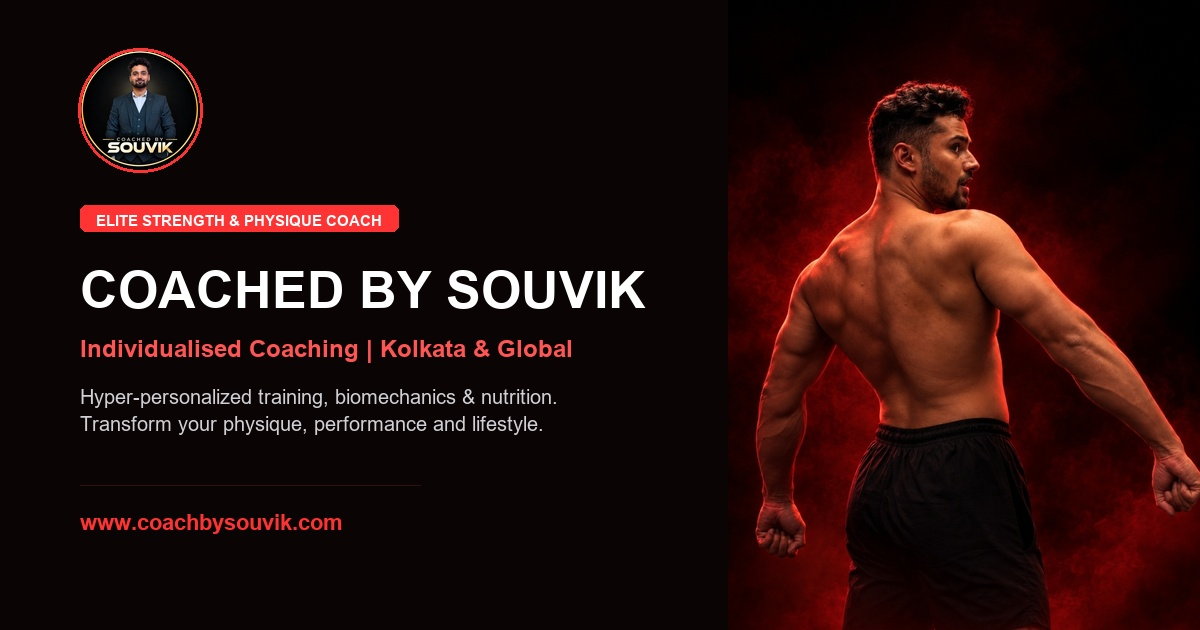
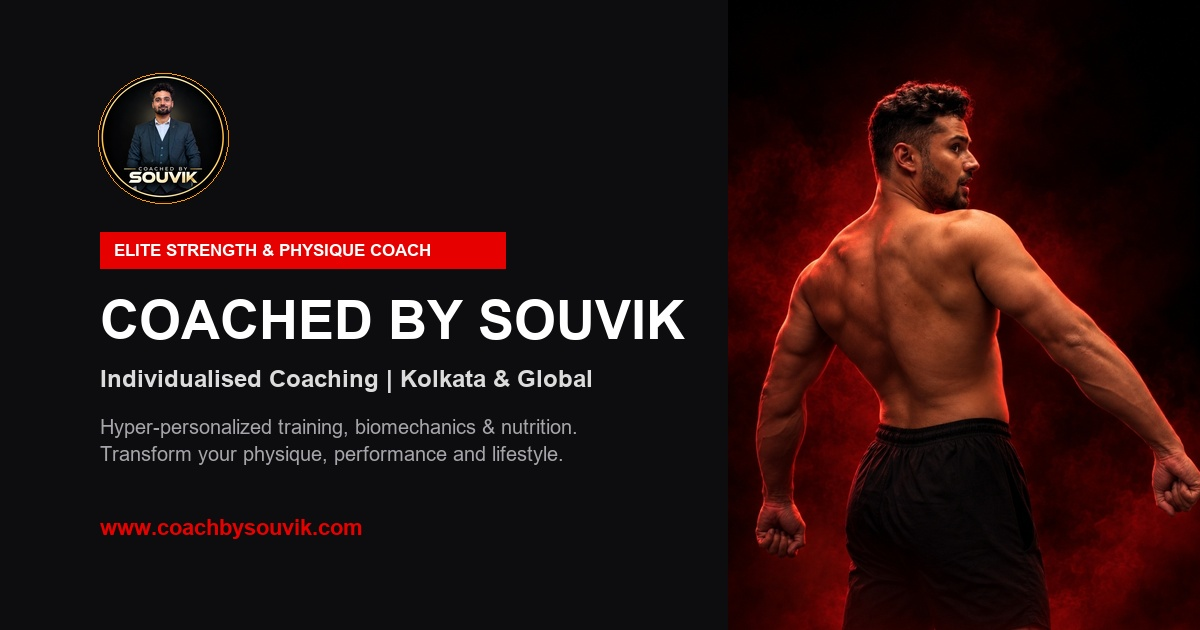
fix: exact original layout with crystal clear white text inside red box

Changed region(s): [[0.0617, 0.0603, 0.5858, 0.754], [0.0617, 0.8143, 0.3083, 0.8746]]

diff --git a/app/layout.tsx b/app/layout.tsx
@@ -36,7 +36,7 @@ export const metadata: Metadata = {
     siteName: "Coached By Souvik",
     images: [
       {
-        url: "/og-image-v2.jpg",
+        url: "/og-image-v3.jpg",
         width: 1200,
         height: 630,
         alt: "Coached By Souvik - Elite Strength & Physique Coach",
@@ -47,7 +47,7 @@ export const metadata: Metadata = {
     card: "summary_large_image",
     title: "COACHED BY SOUVIK | Elite Strength & Physique Coach",
     description: "Individualised coaching for people who want more than a generic workout plan. Strength, movement, nutrition and real-world transformation.",
-    images: ["/og-image-v2.jpg"],
+    images: ["/og-image-v3.jpg"],
   },
   icons: {
     icon: "/logo.jpg",
